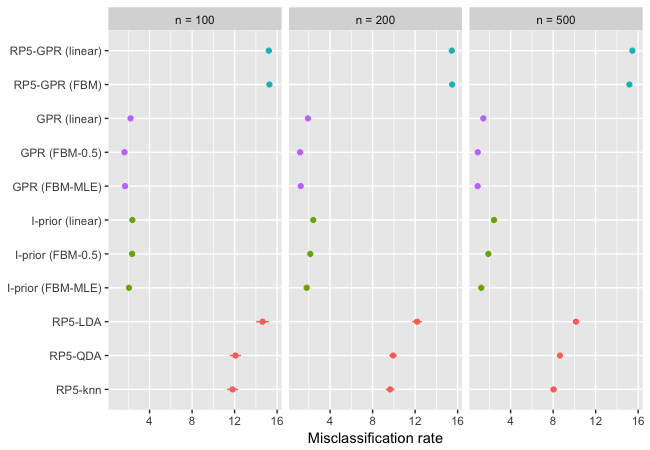
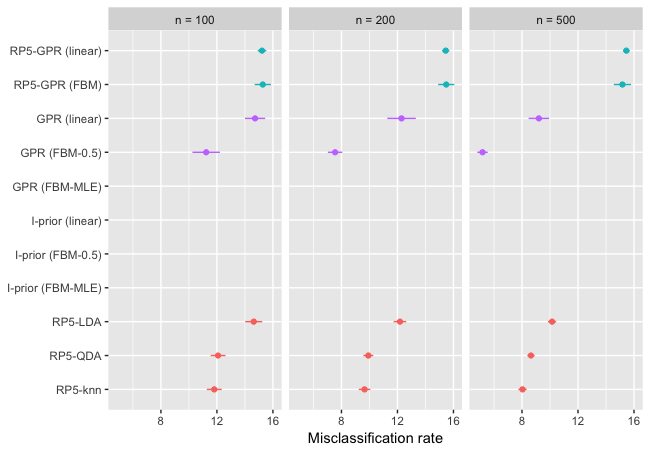
Musk data

diff --git a/README.md b/README.md
@@ -78,17 +78,17 @@ In reference to [1], we compare the peformance of binary classification using Ga
 
 |                  |      n = 100|      n = 200|      n = 500| Rank|
 |:-----------------|------------:|------------:|------------:|----:|
-|RP5-GPR (linear)  | 15.22 (0.11)| 15.45 (0.09)| 15.45 (0.09)|   10|
-|RP5-GPR (FBM)     | 15.28 (0.10)| 15.48 (0.10)| 15.18 (0.11)|   11|
-|GPR (linear)      |  2.21 (0.03)|  1.91 (0.04)|  1.44 (0.03)|    4|
-|GPR (FBM-0.5)     |  1.64 (0.03)|  1.18 (0.02)|  0.91 (0.01)|    1|
-|GPR (FBM-MLE)     |  1.70 (0.04)|  1.23 (0.03)|  0.89 (0.01)|    2|
-|I-prior (linear)  |  2.38 (0.02)|  2.42 (0.02)|  2.43 (0.03)|    6|
-|I-prior (FBM-0.5) |  2.36 (0.02)|  2.14 (0.04)|  1.91 (0.07)|    5|
-|I-prior (FBM-MLE) |  2.06 (0.04)|  1.80 (0.05)|  1.24 (0.04)|    3|
-|RP5-LDA           | 14.63 (0.31)| 12.18 (0.23)| 10.15 (0.15)|    9|
-|RP5-QDA           | 12.08 (0.27)|  9.92 (0.18)|  8.64 (0.13)|    8|
-|RP5-knn           | 11.81 (0.27)|  9.65 (0.21)|  8.04 (0.15)|    7|
+|RP5-GPR (linear)  | 15.22 (0.16)| 15.45 (0.13)| 15.45 (0.12)|    6|
+|RP5-GPR (FBM)     | 15.28 (0.30)| 15.48 (0.29)| 15.18 (0.32)|    7|
+|GPR (linear)      | 14.72 (0.37)| 12.29 (0.52)|  9.20 (0.37)|    5|
+|GPR (FBM-0.5)     | 11.23 (0.50)|  7.55 (0.26)|  5.18 (0.19)|    1|
+|GPR (FBM-MLE)     |           NA|           NA|           NA|    8|
+|I-prior (linear)  |           NA|           NA|           NA|    9|
+|I-prior (FBM-0.5) |           NA|           NA|           NA|   10|
+|I-prior (FBM-MLE) |           NA|           NA|           NA|   11|
+|RP5-LDA           | 14.63 (0.31)| 12.18 (0.23)| 10.15 (0.15)|    4|
+|RP5-QDA           | 12.08 (0.27)|  9.92 (0.18)|  8.64 (0.13)|    3|
+|RP5-knn           | 11.81 (0.27)|  9.65 (0.21)|  8.04 (0.15)|    2|
 
 ![](figure/musk.png)
 
